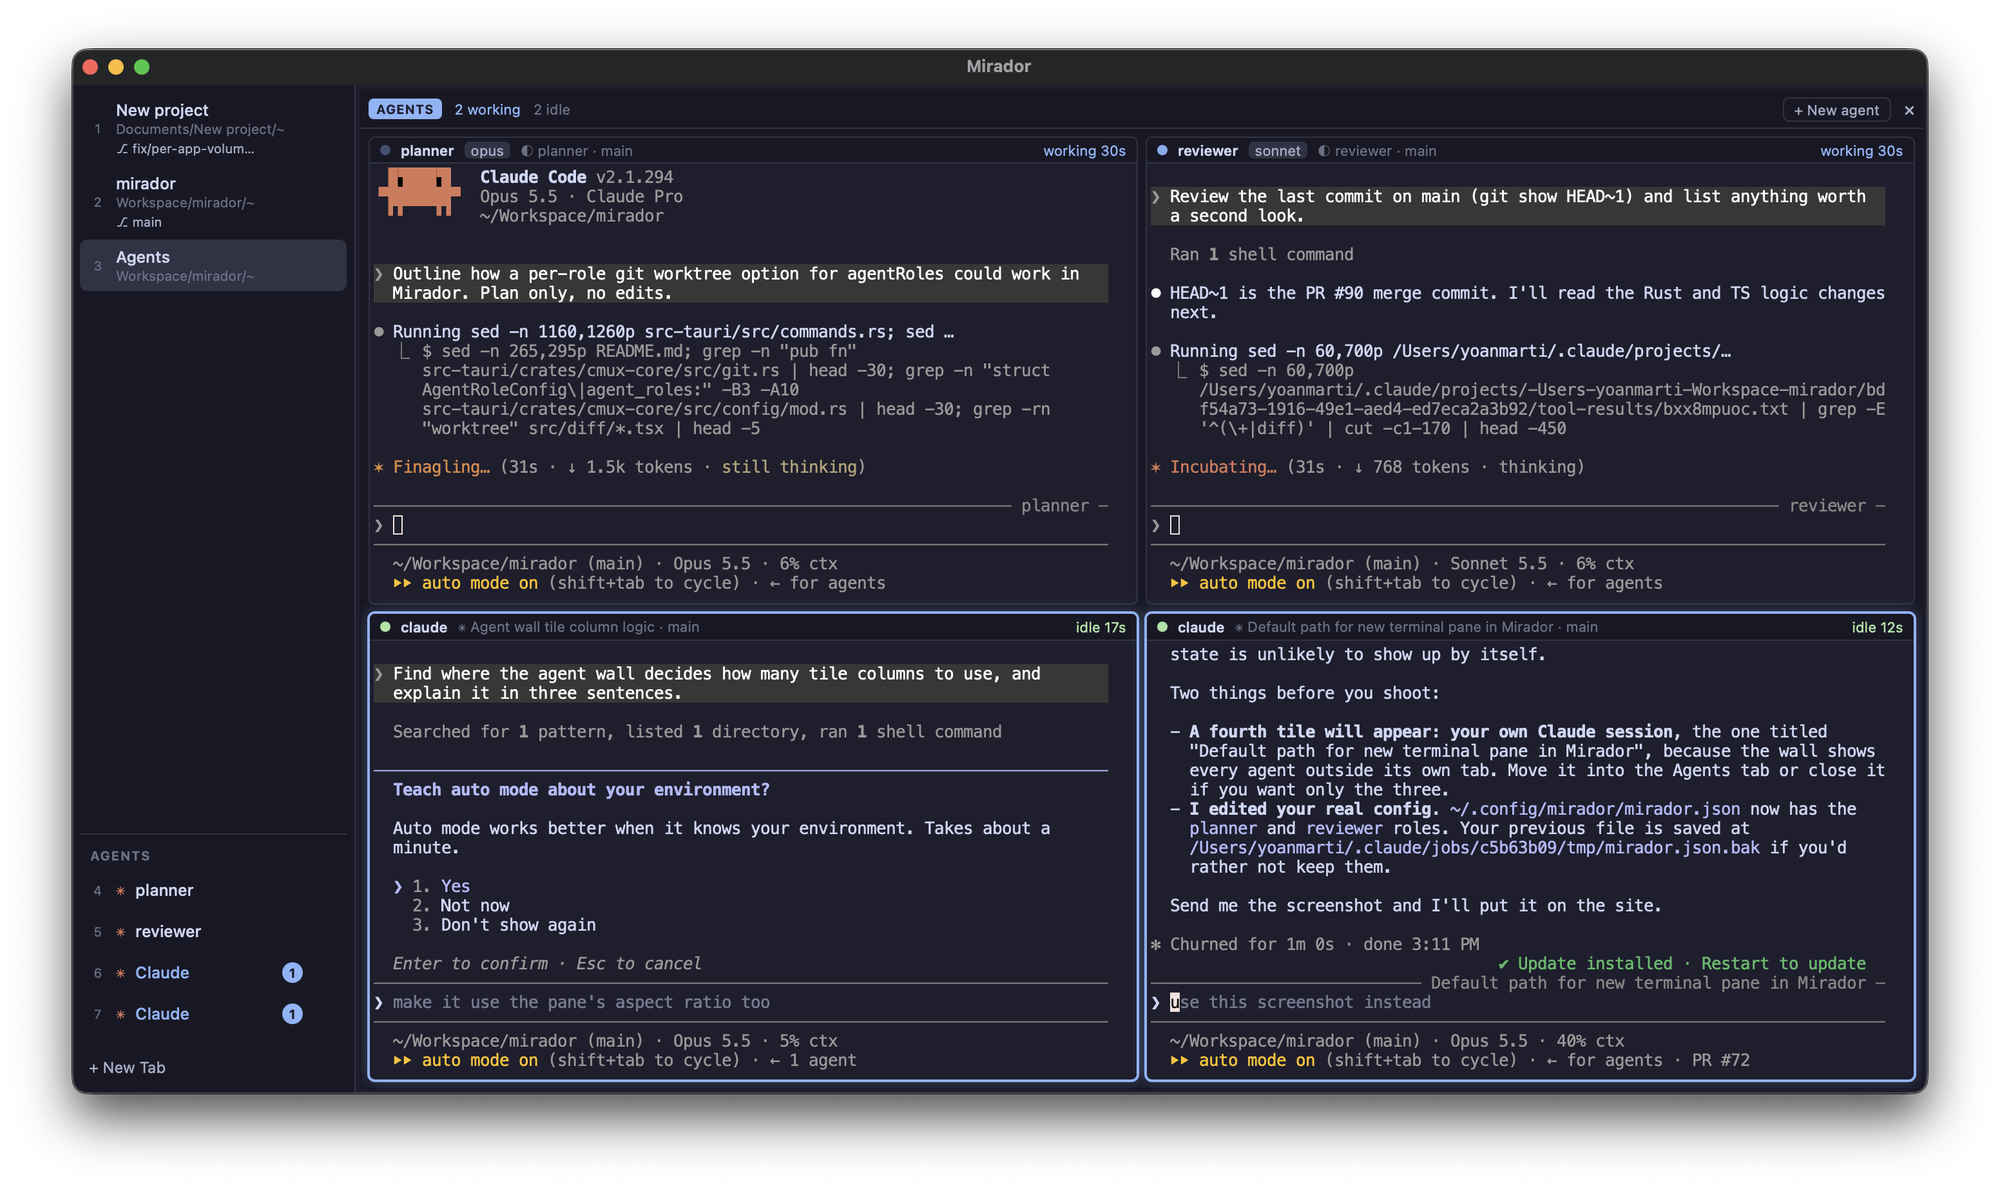
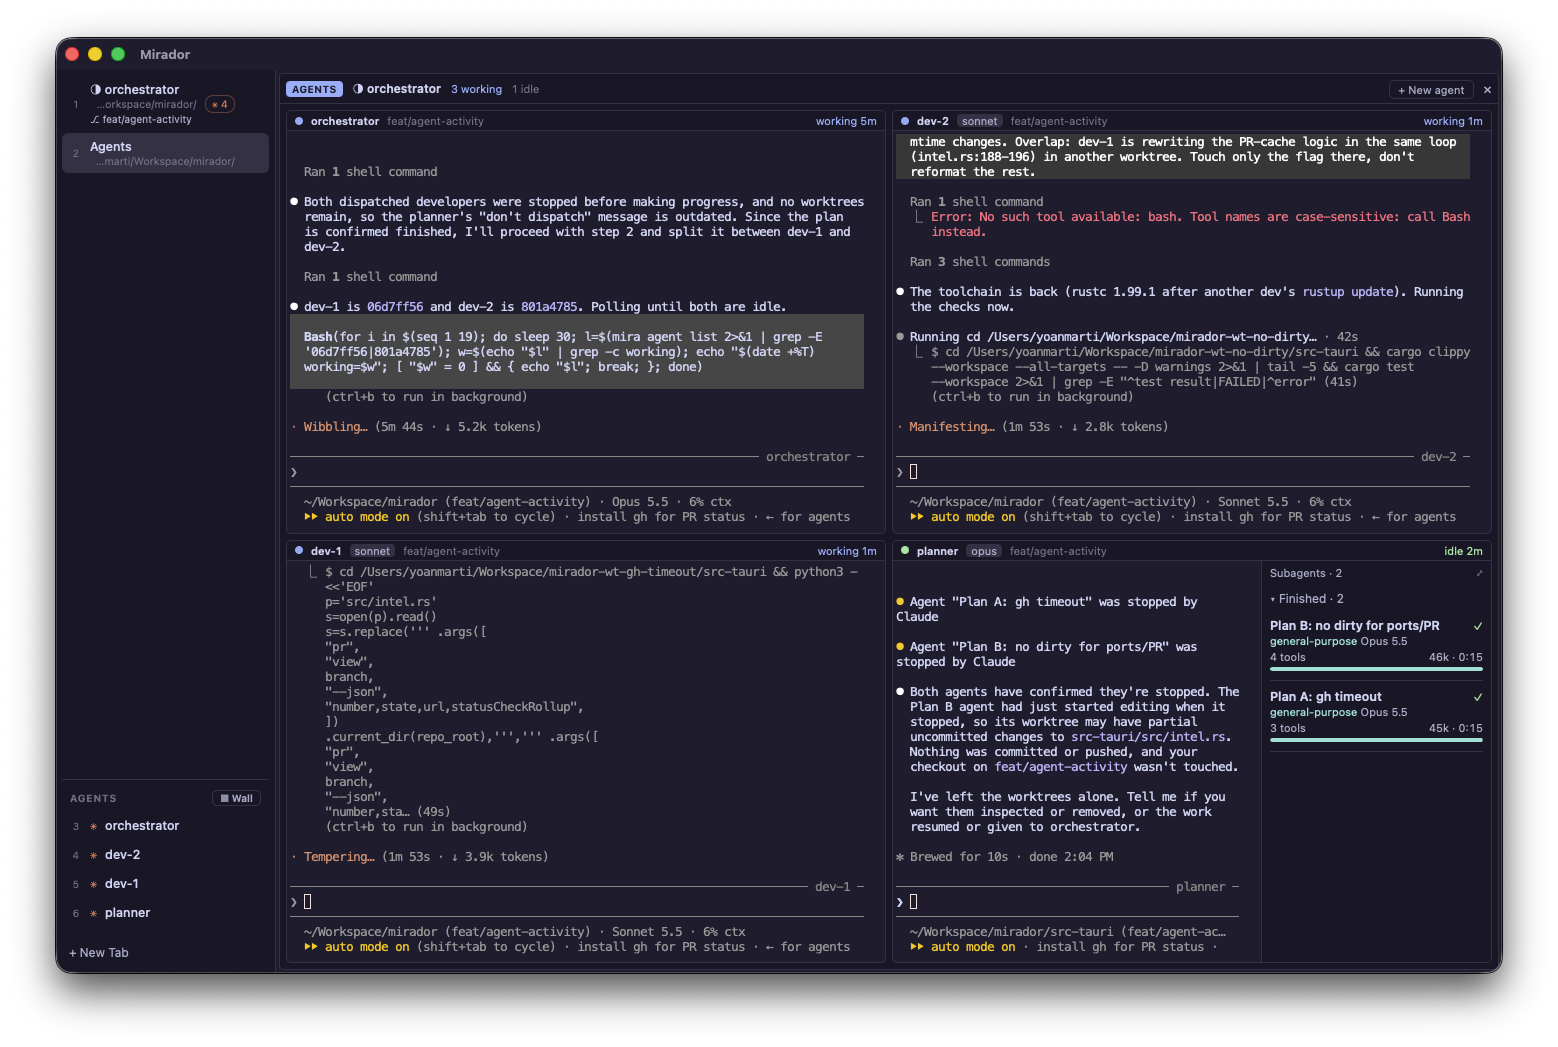
Show named agents and their subagents in the site's wall screenshot
The agents section showed the wall from v0.1.23: four tiles headed by
role and status, nothing of what this branch adds. The new capture is
of this repository being worked on by a team of Claude Code sessions
started with `mira agent new`: an orchestrator directing dev-1 and dev-2
(Sonnet) and a planner (Opus), each tile headed by its session name,
model, branch and status, the planner's two finished subagents in the
column beside its terminal, and the four named in the sidebar.

It ships as lossless WebP, 87 KB from a 314 KB PNG, at the capture's
1558x1047, declared on the <img> so the page reserves the space. The
paragraph above it now says agents go by their session's name and shows
their subagents. The same file is what the release notes will link to,
by commit, for the What's New pane, which accepts WebP from
raw.githubusercontent.com.

Verified: the site builds; on `npm run preview` the image loads at
1558x1047, renders at 1000x672, and the alt text and paragraph are the
new ones.

Changed region(s): [[0.0308, 0.0306, 0.9859, 0.9475], [0.8935, 0.3973, 0.9243, 0.4585], [0.4929, 0.4279, 0.5546, 0.4585]]

diff --git a/web/src/components/AgentShowcase.tsx b/web/src/components/AgentShowcase.tsx
@@ -32,8 +32,10 @@ export default function AgentShowcase() {
           count too, the moment they start in a pane. The tiles are the agents’ live terminals, not
           previews: each says what its agent is doing (working, idle, or waiting on
           you) and takes your keystrokes, so you answer a permission prompt without
-          leaving the wall. In the sidebar, each tab lists its agents below the tabs,
-          and a click shows one alone.
+          leaving the wall. Each goes by its Claude Code session’s name, and beside its
+          terminal sit the subagents it started, with how far each has got; right-click
+          one for the full list. In the sidebar, each tab lists its agents below the
+          tabs, and a click shows one alone.
         </p>
         <div
           style={{
@@ -57,9 +59,9 @@ export default function AgentShowcase() {
 
       <img
         src={wallUrl}
-        alt="The agent wall: four Claude Code agents in a grid — a planner on opus and a reviewer on sonnet still working, two more idle — each tile headed by its role, model and status, with the agents listed apart at the foot of the sidebar."
-        width={2000}
-        height={1189}
+        alt="The agent wall: four Claude Code sessions working on this repository as a team — an orchestrator directing dev-1 and dev-2 on Sonnet and a planner on Opus — each tile headed by its name, model, branch and status, the planner's two finished subagents listed beside its terminal, and the agents named at the foot of the sidebar."
+        width={1558}
+        height={1047}
         loading="lazy"
         style={{
           display: "block",
